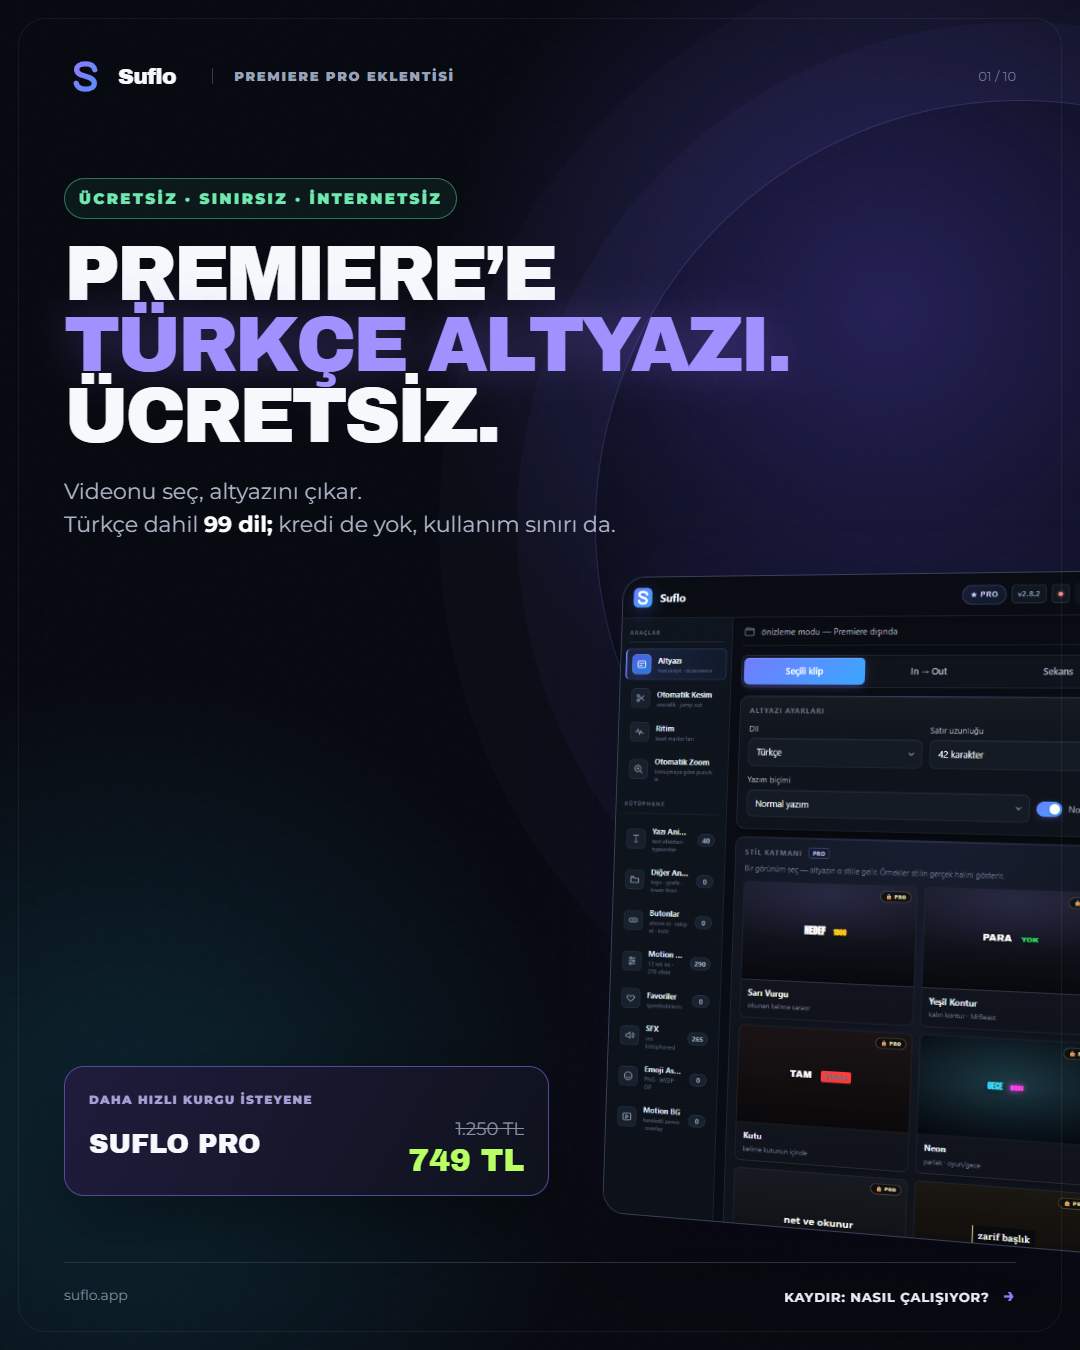
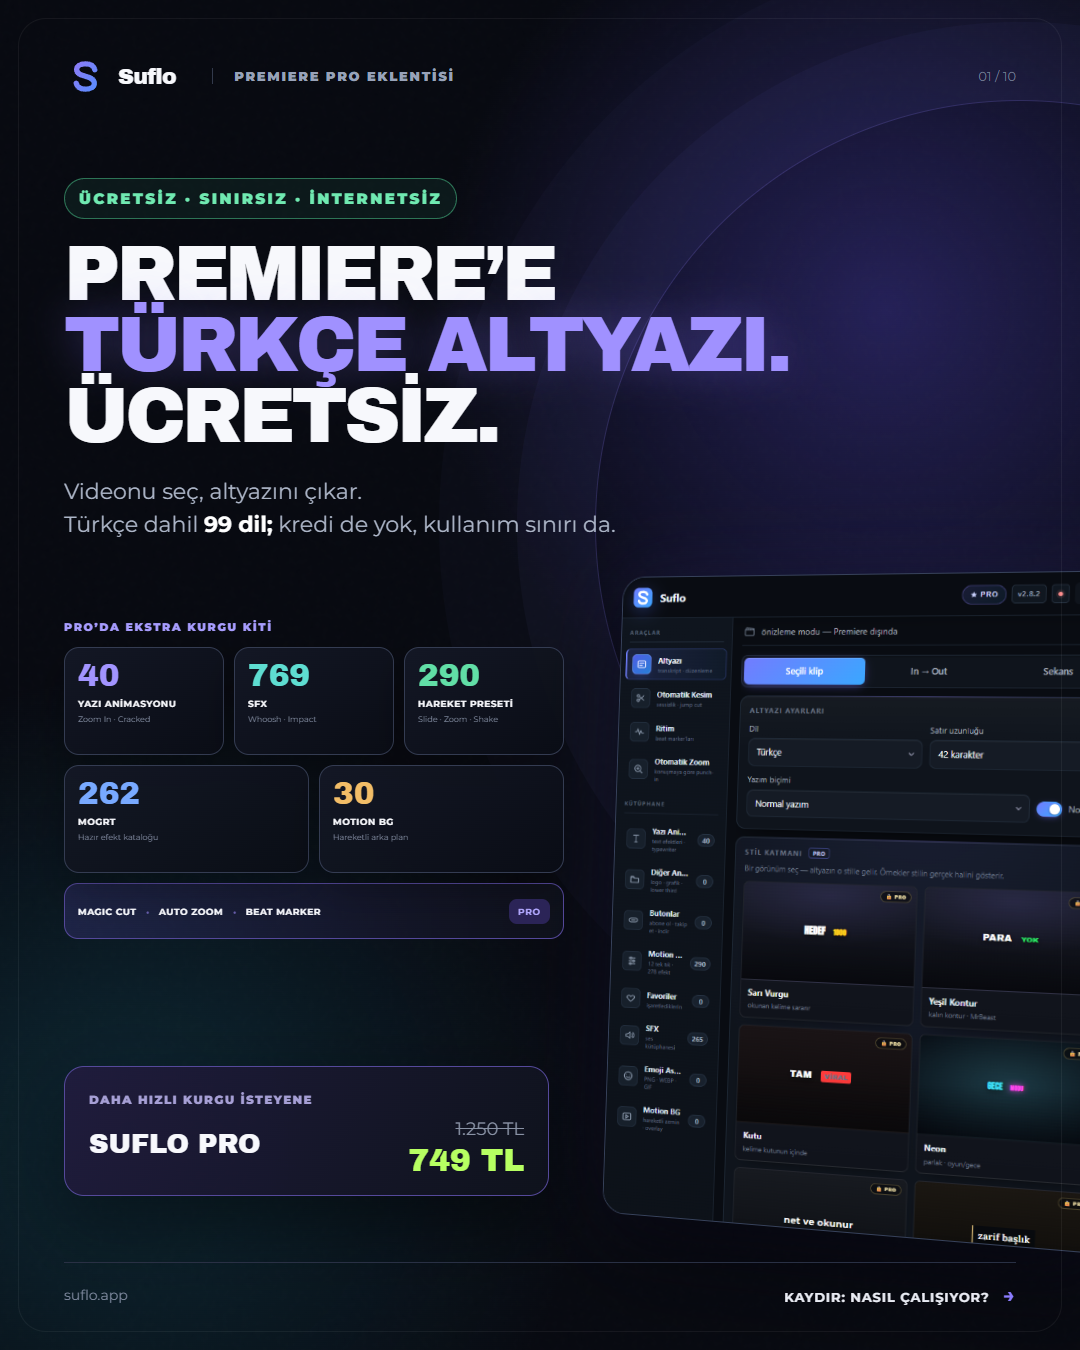
Fill Suflo hero with Pro feature proof

diff --git a/brand/campaign-2.8.2-FINAL/carousel.css b/brand/campaign-2.8.2-FINAL/carousel.css
@@ -25,6 +25,7 @@ main,.slide{width:1080px;height:1350px}
 .hero{background:radial-gradient(circle at 82% 23%,#242057 0,transparent 33%),radial-gradient(circle at 12% 84%,rgba(29,137,163,.22),transparent 31%),#070910}
 .hero-orb{position:absolute;z-index:1;width:850px;height:850px;right:-365px;top:100px;border-radius:50%;border:1px solid rgba(139,124,255,.23);box-shadow:0 0 0 78px rgba(139,124,255,.04),0 0 0 156px rgba(139,124,255,.025)}
 .hero-copy{position:relative;z-index:10;margin-top:76px;width:790px}.free-label{display:inline-block;padding:10px 14px;border:1px solid rgba(85,227,158,.45);border-radius:999px;background:rgba(32,105,78,.16);color:#70e9b1;font-size:12px}.hero-copy h1{margin:0;font-family:Archivo,Impact,sans-serif;font-size:78px;line-height:.91;letter-spacing:-3.8px}.hero-copy h1 em{font-style:normal;color:#a091ff;text-shadow:0 0 42px rgba(136,117,255,.3)}.hero-copy p{margin:25px 0 0;color:#adb6c8;font-size:20px;line-height:1.55}.hero-copy p b{color:#fff}
+.hero-proof{position:absolute;z-index:14;left:64px;top:620px;width:500px}.hero-proof-label{display:block;color:#a89dff;font-size:11px;font-weight:900;letter-spacing:1.65px}.hero-proof-grid{margin-top:13px;display:grid;grid-template-columns:repeat(6,1fr);gap:10px}.hero-proof-grid article{height:108px;padding:14px 13px;border:1px solid #343c52;border-radius:15px;background:linear-gradient(145deg,rgba(20,24,37,.97),rgba(10,13,21,.97));box-shadow:0 18px 38px rgba(0,0,0,.24);display:flex;flex-direction:column}.hero-proof-grid article:nth-child(-n+3){grid-column:span 2}.hero-proof-grid article:nth-child(n+4){grid-column:span 3}.hero-proof-grid strong{font-family:Archivo;font-size:31px;line-height:.9;color:#a294ff}.hero-proof-grid b{margin-top:8px;font-size:9px;letter-spacing:.55px;white-space:nowrap}.hero-proof-grid span{margin-top:5px;color:#7f899e;font-size:8px;white-space:nowrap}.hero-proof-grid .sfx-proof strong{color:#5eddd1}.hero-proof-grid .motion-proof strong{color:#61dea6}.hero-proof-grid .mogrt-proof strong{color:#78a9ff}.hero-proof-grid .bg-proof strong{color:#f2bd67}.hero-tool-strip{height:56px;margin-top:10px;padding:0 13px;border:1px solid #54489a;border-radius:14px;background:linear-gradient(100deg,rgba(79,64,164,.28),rgba(14,17,27,.96));display:flex;align-items:center;gap:9px}.hero-tool-strip b{font-size:9px;letter-spacing:.55px}.hero-tool-strip i{color:#665ca9;font-style:normal}.hero-tool-strip strong{margin-left:auto;padding:7px 9px;border-radius:8px;background:#2b2457;color:#b2a8ff;font-size:9px;letter-spacing:.8px}
 .hero-panel{position:absolute;z-index:5;width:525px;height:660px;right:-44px;bottom:116px;transform:perspective(1200px) rotateY(-10deg) rotateZ(2deg)}
 .launch-ribbon{position:absolute;z-index:12;left:64px;bottom:154px;width:485px;height:130px;padding:20px 24px;border:1px solid #55499b;border-radius:20px;background:linear-gradient(120deg,rgba(32,28,61,.96),rgba(15,18,28,.96));box-shadow:0 30px 70px rgba(0,0,0,.4);display:grid;grid-template-columns:1fr 140px;grid-template-rows:25px 34px 28px;align-items:center}.launch-ribbon span{font-size:10px;color:#a69fd5;font-weight:900;letter-spacing:1.3px}.launch-ribbon b{grid-column:1;grid-row:2/4;font-family:Archivo;font-size:27px}.launch-ribbon del{grid-column:2;grid-row:2;color:#8992a5;font-size:15px;text-align:right}.launch-ribbon strong{grid-column:2;grid-row:3;font-family:Archivo;font-size:27px;color:var(--lime);text-align:right}
 

diff --git a/brand/campaign-2.8.2-FINAL/carousel.html b/brand/campaign-2.8.2-FINAL/carousel.html
@@ -16,6 +16,17 @@
         <h1>PREMIERE’E<br><em>TÜRKÇE ALTYAZI.</em><br>ÜCRETSİZ.</h1>
         <p>Videonu seç, altyazını çıkar.<br>Türkçe dahil <b>99 dil;</b> kredi de yok, kullanım sınırı da.</p>
       </div>
+      <div class="hero-proof">
+        <span class="hero-proof-label">PRO’DA EKSTRA KURGU KİTİ</span>
+        <div class="hero-proof-grid">
+          <article class="text-proof"><strong>40</strong><b>YAZI ANİMASYONU</b><span>Zoom In · Cracked</span></article>
+          <article class="sfx-proof"><strong>769</strong><b>SFX</b><span>Whoosh · Impact</span></article>
+          <article class="motion-proof"><strong>290</strong><b>HAREKET PRESETİ</b><span>Slide · Zoom · Shake</span></article>
+          <article class="mogrt-proof"><strong>262</strong><b>MOGRT</b><span>Hazır efekt kataloğu</span></article>
+          <article class="bg-proof"><strong>30</strong><b>MOTION BG</b><span>Hareketli arka plan</span></article>
+        </div>
+        <div class="hero-tool-strip"><b>MAGIC CUT</b><i>•</i><b>AUTO ZOOM</b><i>•</i><b>BEAT MARKER</b><strong>PRO</strong></div>
+      </div>
       <div class="hero-panel device"><img src="panel-captures/01-captions.png" alt="Suflo AI Altyazı paneli"></div>
       <div class="launch-ribbon"><span>DAHA HIZLI KURGU İSTEYENE</span><b>SUFLO PRO</b><del>1.250 TL</del><strong>749 TL</strong></div>
       <footer class="foot"><span>suflo.app</span><b>KAYDIR: NASIL ÇALIŞIYOR? <i>→</i></b></footer>
